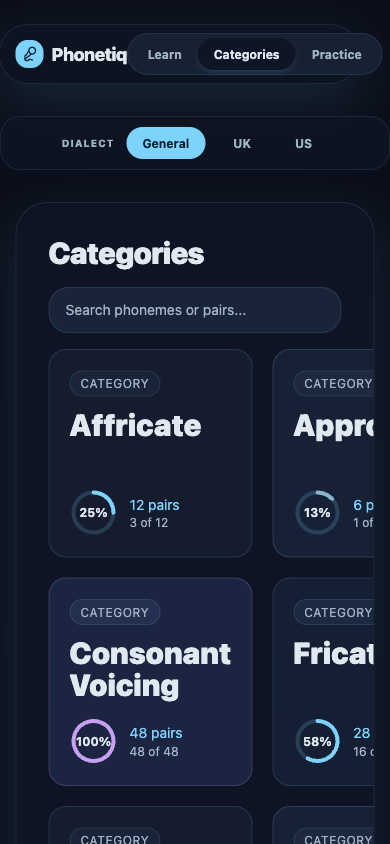
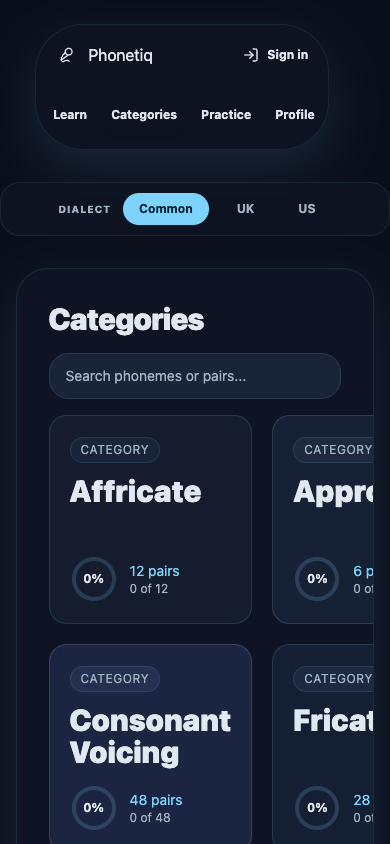
Refresh README mobile screenshots with current app UI

diff --git a/README.md b/README.md
@@ -17,9 +17,9 @@ A web app for practicing English **minimal pair pronunciation** — words that d
 
 ### Mobile
 
-| Learn | Practice | Categories |
-| --- | --- | --- |
-| ![Learn mode mobile](docs/screenshots/learn-mobile.png) | ![Practice mode mobile](docs/screenshots/practice-mobile.png) | ![Categories mode mobile](docs/screenshots/categories-mobile.png) |
+| Learn | Practice | Categories | Profile |
+| --- | --- | --- | --- |
+| ![Learn mode mobile](docs/screenshots/learn-mobile.png) | ![Practice mode mobile](docs/screenshots/practice-mobile.png) | ![Categories mode mobile](docs/screenshots/categories-mobile.png) | ![Profile mode mobile](docs/screenshots/profile-mobile.png) |
 
 ## Features
 
